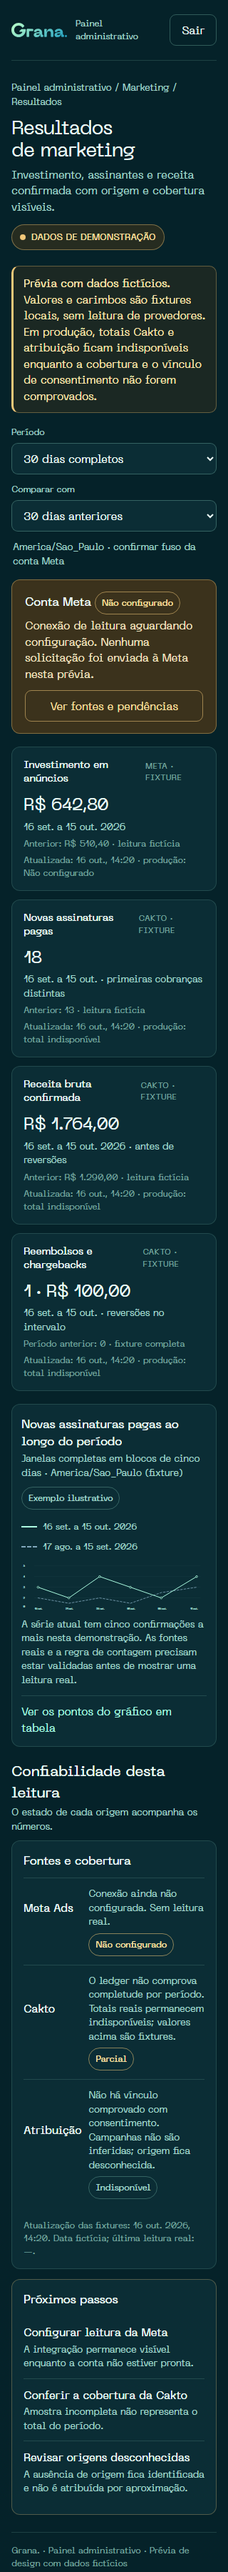
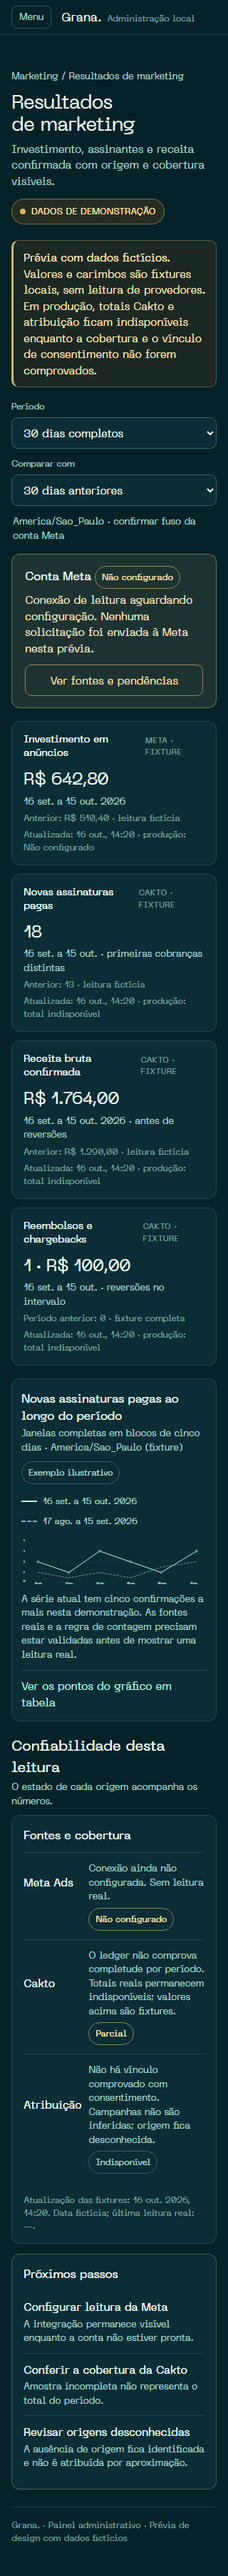
docs(admin): adaptar metricas E4 ao painel local

Changed region(s): [[0.0312, 0.0, 0.9688, 1.0]]

diff --git a/docs/admin/meta-painel-prism/metricas-meta.html b/docs/admin/meta-painel-prism/metricas-meta.html
@@ -27,12 +27,22 @@ details{margin-top:12px;border-top:1px solid var(--line);padding-top:10px}summar
 @media(max-width:360px){.wrap{padding-inline:16px}.brand{flex-basis:170px;gap:10px}.brand img{width:78px}.brand span{font-size:12px}.intro h1{font-size:27px}.source-row{grid-template-columns:minmax(80px,.5fr) minmax(0,1fr)}}
 @media(prefers-reduced-motion:reduce){*,*::before,*::after{scroll-behavior:auto!important;animation-duration:.01ms!important;transition-duration:.01ms!important}}
 </style>
+<style>
+:root{--bg:#052229;--surface:#0b2d35;--ink:#effffa;--muted:#a6d9ce;--quiet:#7fa9a0;--mint:#aeffe3;--line:rgba(174,255,227,.14);--strong:rgba(174,255,227,.26);--warning:#d3b869;--warning-bg:rgba(211,184,105,.12);--focus:#aeffe3}
+body{font-synthesis:none}h1,h2,h3,strong,b,th{font-weight:400}.top{display:none!important}
+.app-shell{display:grid;grid-template-columns:248px minmax(0,1fr);min-height:100vh}.local-nav{position:sticky;top:0;height:100vh;display:flex;flex-direction:column;gap:16px;padding:24px 12px 16px;border-right:1px solid var(--line);background:var(--bg)}.local-brand{padding:0 12px;color:var(--ink);font-size:22px;line-height:1.2;text-decoration:none}.local-brand span{display:block;margin-top:4px;color:var(--quiet);font-size:12px}.local-nav-title{padding:8px 12px 0;color:var(--quiet);font-size:12px;letter-spacing:.04em;text-transform:uppercase}.local-nav-list{display:flex;flex-direction:column;gap:2px;margin:0;padding:0 8px;list-style:none}.local-nav-list a{display:flex;align-items:center;min-height:44px;padding:0 12px;border-radius:12px;color:var(--muted);font-size:14px;text-decoration:none}.local-nav-list a[aria-current=page]{background:#0c353e;color:var(--ink);box-shadow:inset 0 0 0 1px var(--line)}.local-nav-foot{margin:auto 12px 0;color:var(--quiet);font-size:12px;line-height:1.5}.main-pane{min-width:0}.mobile-bar{display:none}.wrap{width:min(100%,1260px);max-width:1260px;margin:0 auto;padding:28px clamp(16px,3vw,40px) 44px}
+@media(max-width:899px){.app-shell{grid-template-columns:minmax(0,1fr)}.local-nav{display:none}.mobile-bar{position:sticky;top:0;z-index:10;display:flex;align-items:center;gap:14px;min-height:48px;padding:8px 16px;border-bottom:1px solid var(--line);background:var(--bg)}.menu-chip{padding:5px 10px;border:1px solid var(--strong);border-radius:8px;color:var(--muted);font-size:13px}.mobile-brand{font-size:17px;color:var(--ink)}.mobile-brand small{margin-left:8px;color:var(--quiet);font-size:12px}.wrap{width:100%;padding:20px 16px 44px}}
+</style>
+<style>.attention{background:var(--surface)!important}</style>
 </head>
 <body>
 <a class="skip" href="#conteudo">Pular para o conteúdo</a>
+<div class="app-shell">
+<aside class="local-nav" aria-label="Seções do painel"><a class="local-brand" href="#/visao-geral">Grana.<span>Administração local</span></a><span class="local-nav-title">Marketing</span><ul class="local-nav-list"><li><a href="#/marketing/documento">Documento</a></li><li><a href="#/marketing/aprovacao">Aprovação</a></li><li><a href="#/marketing/feed">Feed</a></li><li><a href="#/marketing/calendario">Calendário</a></li><li><a href="#/marketing/trafego">Tráfego pago</a></li><li><a href="#/marketing/resultados" aria-current="page">Resultados de marketing</a></li><li><a href="#/marketing/acervo">Acervo</a></li></ul><p class="local-nav-foot">Só neste computador. Nenhuma chave sai do servidor local.</p></aside>
+<div class="main-pane"><header class="mobile-bar"><span class="menu-chip">Menu</span><span class="mobile-brand">Grana.<small>Administração local</small></span></header>
 <div class="wrap">
 <header class="top"><div class="brand"><img src="../../../public/admin-marca.svg" width="120" height="31" alt="Grana."><span>Painel administrativo</span></div><button class="exit" type="button" aria-label="Demonstração do botão Sair">Sair</button></header>
-<p class="crumb">Painel administrativo / Marketing / Resultados</p>
+<p class="crumb">Marketing / Resultados de marketing</p>
 <main id="conteudo">
 <div class="intro"><div><h1>Resultados de marketing</h1><p>Investimento, assinantes e receita confirmada com origem e cobertura visíveis.</p></div><span class="demo">DADOS DE DEMONSTRAÇÃO</span></div>
 <p class="demo-note"><strong>Prévia com dados fictícios.</strong> Valores e carimbos são fixtures locais, sem leitura de provedores. Em produção, totais Cakto e atribuição ficam indisponíveis enquanto a cobertura e o vínculo de consentimento não forem comprovados.</p>
@@ -76,4 +86,5 @@ details{margin-top:12px;border-top:1px solid var(--line);padding-top:10px}summar
 </div></section>
 </main><footer class="footer">Grana. · Painel administrativo · Prévia de design com dados fictícios</footer>
 </div>
+</div></div>
 </body></html>

diff --git a/docs/admin/meta-painel-prism/metricas-meta.md b/docs/admin/meta-painel-prism/metricas-meta.md
@@ -1,12 +1,22 @@
 # Contrato visual: resultados de marketing e Meta
 
-**Entrega:** E4, leitura administrativa no `/admin` web.
+**Entrega:** E4, leitura administrativa no painel local `tools/admin-local`.
 
 **Estado do contrato:** proposta visual alinhada ao dicionário do Beacon; fórmulas de novas assinaturas e receita seguem bloqueadas para leitura real enquanto a origem Cakto não comprovar completude. A semântica de estorno de assinatura ainda depende do autor.
 
 **Protótipo:** [metricas-meta.html](./metricas-meta.html). Todas as capturas usam fixtures fictícias.
 
-**Entradas:** [relatório de métricas do Beacon](../../marketing/2026-10/semana-42-2026-10-12-a-2026-10-18/apoio/relatorios/relatorio-Beacon-metricas-meta.md), contrato de agregação E4, decisões da ordem META-PAINEL-16-10 e tokens de `components/admin/admin-visual.css`.
+**Entradas:** [relatório de métricas do Beacon](../../marketing/2026-10/semana-42-2026-10-12-a-2026-10-18/apoio/relatorios/relatorio-Beacon-metricas-meta.md), contrato de agregação E4, decisões da ordem META-PAINEL-16-10 e tokens de `tools/admin-local/web/estilo.css`.
+
+## Encaixe no painel local
+
+- A tela pertence ao grupo **Marketing**, depois de **Tráfego pago** e antes de **Acervo**, com o rótulo **Resultados de marketing**. Rota sugerida para o porte: `#/marketing/resultados`.
+- O protótipo mostra a navegação lateral do painel em telas largas. Em 768 px ou menos, segue a casca real: barra superior fixa e navegação recolhida pelo controle **Menu**; o conteúdo continua dentro de `#tela`.
+- Reutilizar `tela-cabecalho`, `secao`, `grade-cartoes`, `cartao`, `selo`, `campo`, `tabela-rolagem` e os estados `estado-ausente`/`estado-erro`. Para comparação temporal, manter tabela acessível junto ao gráfico; não criar um componente de gráfico global.
+- Mapear a apresentação para os tokens locais: `--paper`, `--paper-raised`, `--ink`, `--ink-soft`, `--ink-faint`, `--rule`, `--rule-strong`, `--accent-2`, `--atencao`, escala `--t-*`, espaços `--s-*`, raios `--r-*` e alvo `--alvo`. Preservar Neue Machina sem peso sintético, fundos chapados e sem glassmorphism.
+- A tela consome a rota local pelo servidor Node. O navegador não chama Meta, Cakto nem Supabase diretamente. A rota e a composição do menu ficam para o porte de Lumen; esta especificação não altera `tools/admin-local`.
+
+As capturas anteriores de `/admin` foram substituídas por pranchas enquadradas na casca local; o contrato de dados e as fixtures não mudaram.
 
 ## Propósito e limites
 
@@ -16,14 +26,14 @@ Esta superfície é de leitura. Não cria campanhas, muda orçamento, publica ou
 
 ## Ordem da página
 
-1. Shell atual do `/admin`, título **Resultados de marketing** e aviso persistente de demonstração quando os dados forem fixtures.
+1. Casca do painel local, título **Resultados de marketing** e aviso persistente de demonstração quando os dados forem fixtures.
 2. Período, comparação, fuso e intervalos exatos.
 3. Estado da conexão Meta, separado de cobertura Cakto e atribuição.
 4. Indicadores de investimento em anúncios, novas assinaturas pagas, receita bruta confirmada e reembolsos/chargebacks. Ações pendentes ficam no painel de confiabilidade, não substituem uma medida financeira.
 5. Uma série por vez, período atual e comparação com traços e rótulos distintos, resumo textual e tabela de valores.
 6. Confiabilidade por fonte: estado, cobertura, atualização, páginas, duplicados/rejeitados e origens desconhecidas.
 
-Seguir o shell existente: fundo `#052229`, superfície `#0b2d35`, texto `#effffa`, apoio `#a6d9ce`, acento `#aeffe3`, largura máxima 1120 px e Neue Machina. Manter o contraste e a hierarquia do `/admin`; sem glassmorphism.
+Seguir `tools/admin-local/web/estilo.css`: fundo `#052229`, superfície `#0b2d35`, texto `#effffa`, apoio `#a6d9ce`, acento `#aeffe3`, Neue Machina e largura útil da casca local. Manter contraste, hierarquia e estados textuais do painel; sem glassmorphism.
 
 ## Períodos
 
